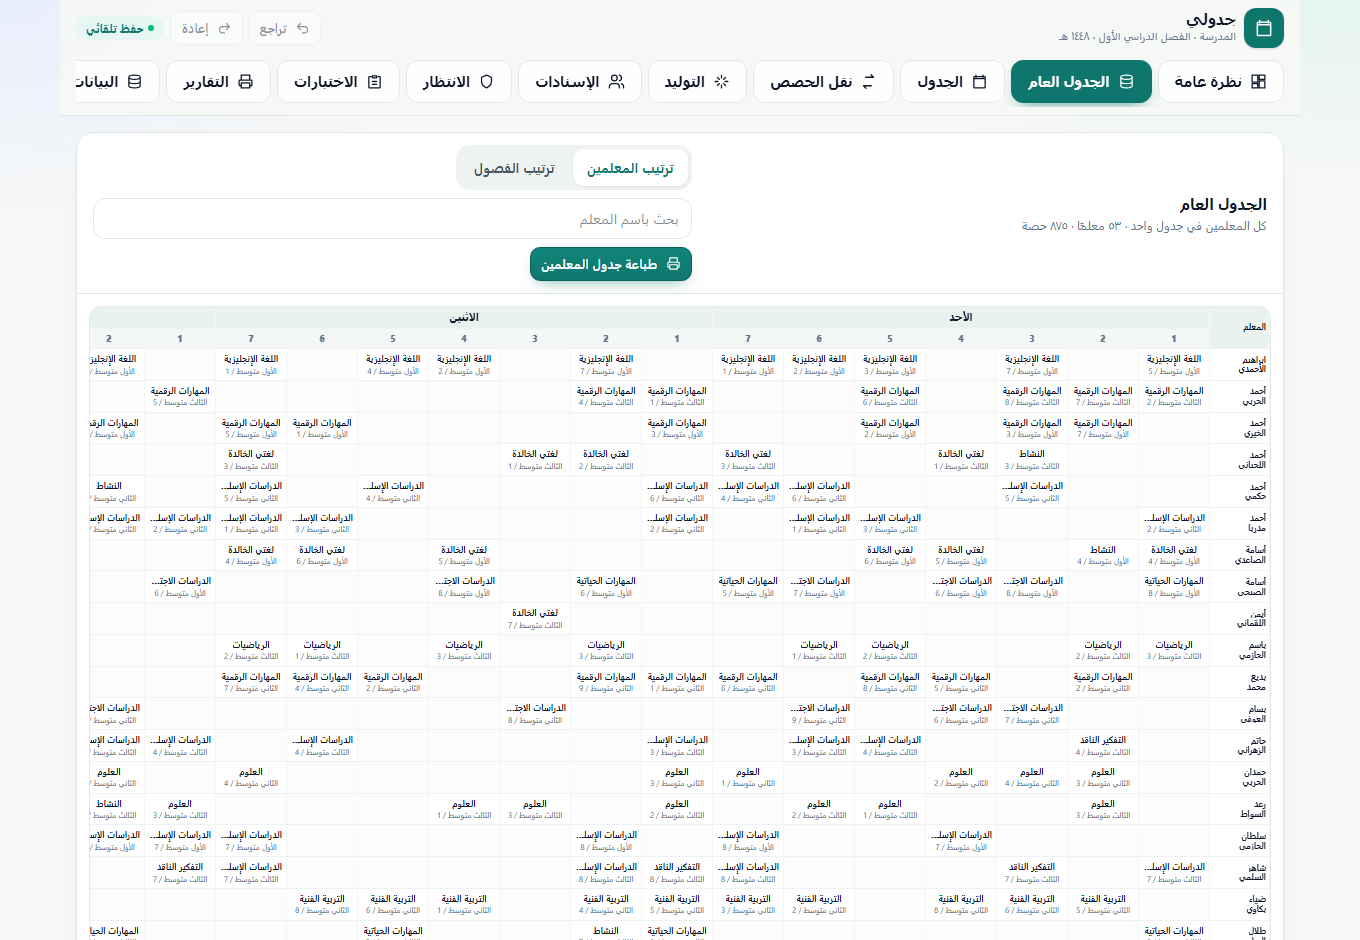
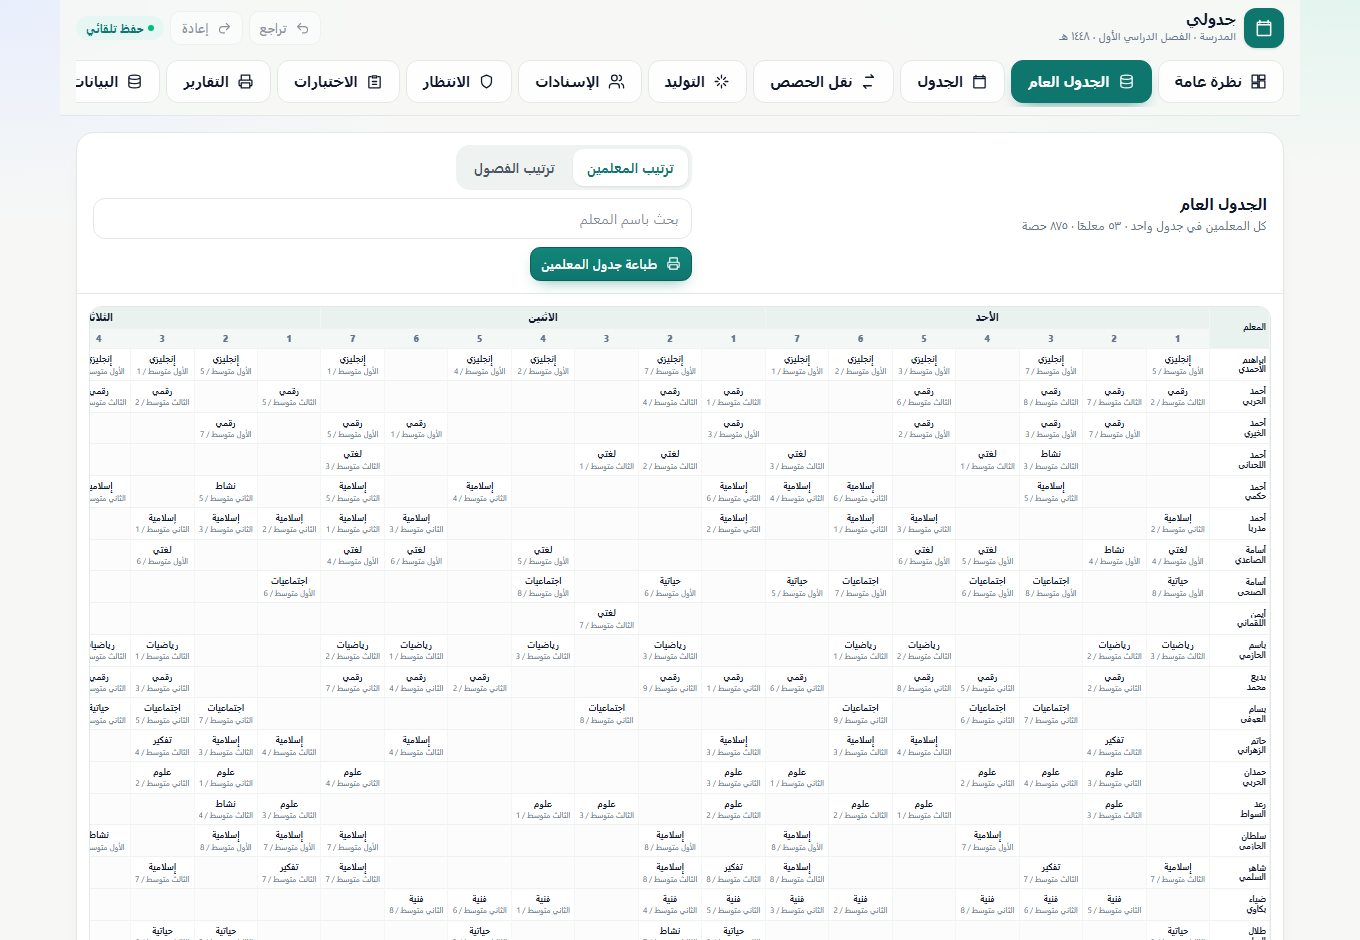
الجدول العام: اختصار أسماء المواد (إسلامية، اجتماعيات، إنجليزي، لغتي…) لتصغير الجدول

diff --git a/src/components/MasterTable.tsx b/src/components/MasterTable.tsx
@@ -55,6 +55,31 @@ export function masterRows(data: SchoolData, mode: MasterMode, query = ''): Row[
   return rows;
 }
 
+/** اسم المادة المختصر للجدول العام: «الدراسات الإسلامية» ← «إسلامية». */
+export function shortSubjectName(name: string): string {
+  const rules: [RegExp, string][] = [
+    [/إسلام|اسلام/, 'إسلامية'],
+    [/اجتماع/, 'اجتماعيات'],
+    [/إنجليز|انجليز/, 'إنجليزي'],
+    [/لغتي/, 'لغتي'],
+    [/رقمي/, 'رقمي'],
+    [/حيات/, 'حياتية'],
+    [/فني/, 'فنية'],
+    [/بدني/, 'بدنية'],
+    [/ناقد/, 'تفكير'],
+    [/رياض/, 'رياضيات'],
+    [/علوم/, 'علوم'],
+    [/نشاط/, 'نشاط'],
+  ];
+  const clean = name.replace(/[\u064B-\u0652]/g, '').trim();
+  for (const [pattern, short] of rules) if (pattern.test(clean)) return short;
+  // احتياط: إزالة البادئات الشائعة واللاحقات الطويلة.
+  return clean
+    .replace(/^(الدراسات|اللغة|التربية|المهارات)\s+/, '')
+    .replace(/\s+الخالدة$/, '')
+    .trim();
+}
+
 /** اسم الفصل المختصر: «الثالث متوسط / 1» ← «1/3» (رقم الفصل / رقم الصف). */
 export function shortClassName(name: string): string {
   const grade = gradeOf(name);
@@ -128,7 +153,9 @@ export function MasterTable({
                     <td key={`${day}-${period}`} data-empty={!cell}>
                       {cell ? (
                         <>
-                          <span className="master-subject">{cell.subject}</span>
+                          <span className="master-subject" title={cell.subject}>
+                            {shortSubjectName(cell.subject)}
+                          </span>
                           <span className="master-meta">{cell.meta}</span>
                         </>
                       ) : (

diff --git a/tests/master.test.ts b/tests/master.test.ts
@@ -2,7 +2,7 @@ import { describe, expect, it } from 'vitest';
 import raw from '../src/data/school.json';
 import type { SchoolData } from '../src/types';
 import { lessonTeacherId, normalizeData } from '../src/lib/model';
-import { masterRows, shortClassName, teacherNameLines } from '../src/components/MasterTable';
+import { masterRows, shortClassName, shortSubjectName, teacherNameLines } from '../src/components/MasterTable';
 
 const data = normalizeData(raw as unknown as SchoolData);
 
@@ -44,5 +44,20 @@ describe('الجدول العام', () => {
   it('يقسم اسم المعلم إلى سطرين', () => {
     expect(teacherNameLines('إبراهيم الأحمدي')).toEqual(['إبراهيم', 'الأحمدي']);
     expect(teacherNameLines('عبدالله فيصل الصاعدي')).toEqual(['عبدالله', 'فيصل الصاعدي']);
+  });
+
+  it('يختصر أسماء المواد للجدول العام', () => {
+    expect(shortSubjectName('الدراسات الإسلامية')).toBe('إسلامية');
+    expect(shortSubjectName('الدراسات الاجتماعية')).toBe('اجتماعيات');
+    expect(shortSubjectName('اللغة الإنجليزية')).toBe('إنجليزي');
+    expect(shortSubjectName('لغتي الخالدة')).toBe('لغتي');
+    expect(shortSubjectName('المهارات الرقمية')).toBe('رقمي');
+    expect(shortSubjectName('المهارات الحياتية')).toBe('حياتية');
+    expect(shortSubjectName('التربية الفنية')).toBe('فنية');
+    expect(shortSubjectName('التربية البدنية')).toBe('بدنية');
+    expect(shortSubjectName('الرياضيات')).toBe('رياضيات');
+    expect(shortSubjectName('العلوم')).toBe('علوم');
+    expect(shortSubjectName('التفكير الناقد')).toBe('تفكير');
+    expect(shortSubjectName('النشاط')).toBe('نشاط');
   });
 });
